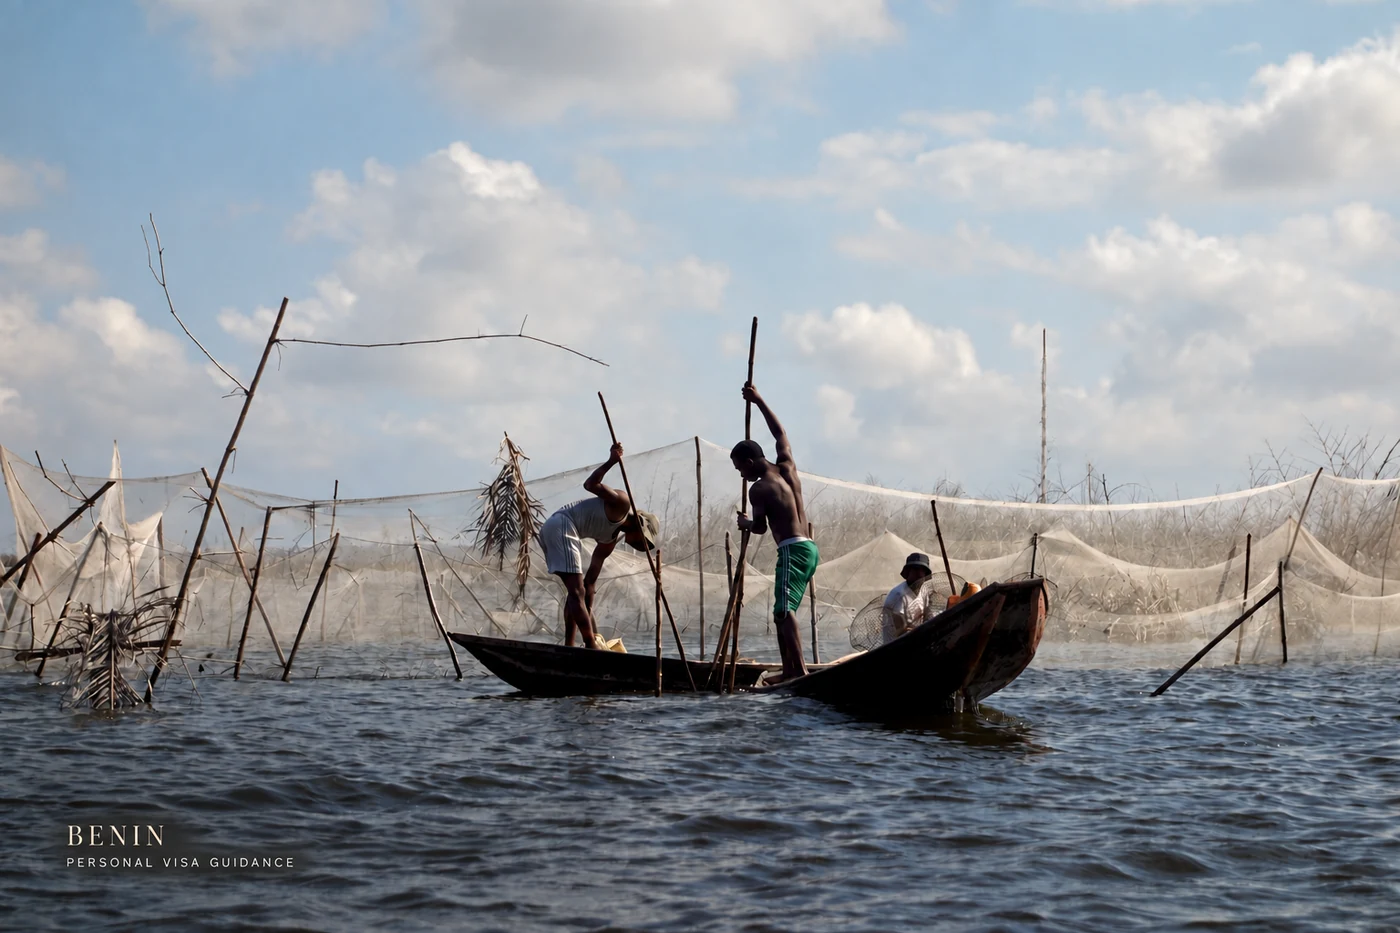
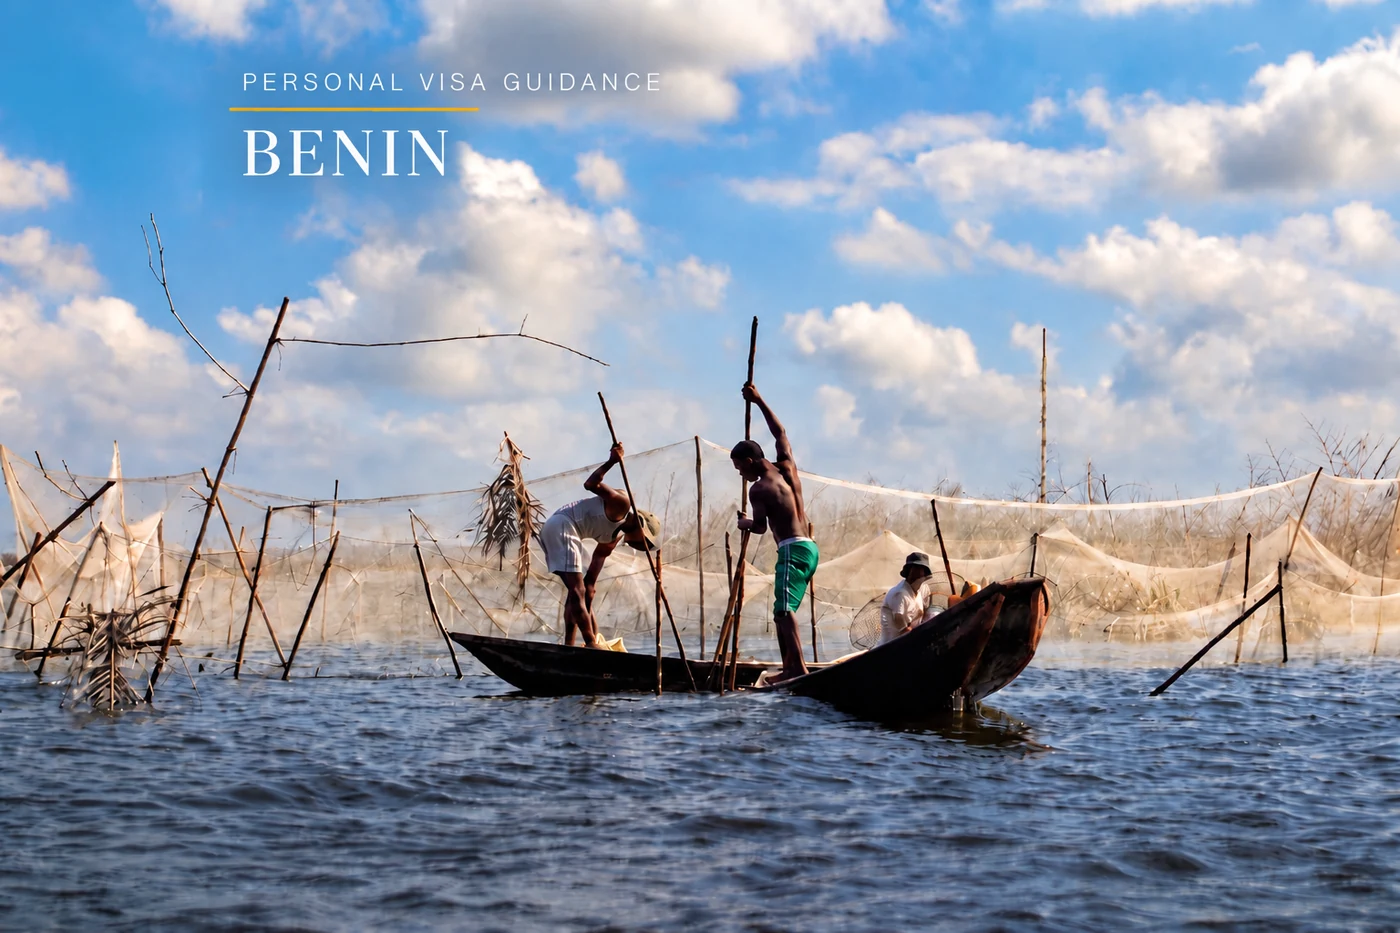
Day5

diff --git a/src/components/DestinationPage.jsx b/src/components/DestinationPage.jsx
@@ -141,7 +141,10 @@ export function DestinationPage({
                         className={
                           service.title === 'Travel Planner'
                             ? 'size-full object-contain'
-                            : 'size-full object-cover'
+                            : service.title === 'Personal Visa Guidance'
+                              ? // Its card art carries the title at the top — crop from the bottom.
+                                'size-full object-cover object-top'
+                              : 'size-full object-cover'
                         }
                       />
                     </div>

diff --git a/src/pages/Senegal.jsx b/src/pages/Senegal.jsx
@@ -169,7 +169,10 @@ export function Senegal() {
                         className={
                           service.title === 'Travel Planner'
                             ? 'size-full object-contain'
-                            : 'size-full object-cover'
+                            : service.title === 'Personal Visa Guidance'
+                              ? // Its card art carries the title at the top — crop from the bottom.
+                                'size-full object-cover object-top'
+                              : 'size-full object-cover'
                         }
                       />
                     </div>

diff --git a/src/pages/Gambia.jsx b/src/pages/Gambia.jsx
@@ -152,7 +152,10 @@ export function Gambia() {
                         className={
                           service.title === 'Travel Planner'
                             ? 'size-full object-contain'
-                            : 'size-full object-cover'
+                            : service.title === 'Personal Visa Guidance'
+                              ? // Its card art carries the title at the top — crop from the bottom.
+                                'size-full object-cover object-top'
+                              : 'size-full object-cover'
                         }
                       />
                     </div>

diff --git a/src/pages/Malawi.jsx b/src/pages/Malawi.jsx
@@ -180,7 +180,10 @@ export function Malawi() {
                         className={
                           service.title === 'Travel Planner'
                             ? 'size-full object-contain'
-                            : 'size-full object-cover'
+                            : service.title === 'Personal Visa Guidance'
+                              ? // Its card art carries the title at the top — crop from the bottom.
+                                'size-full object-cover object-top'
+                              : 'size-full object-cover'
                         }
                       />
                     </div>

diff --git a/src/pages/Rwanda.jsx b/src/pages/Rwanda.jsx
@@ -101,7 +101,10 @@ export function Rwanda() {
                         className={
                           service.title === 'Travel Planner'
                             ? 'size-full object-contain'
-                            : 'size-full object-cover'
+                            : service.title === 'Personal Visa Guidance'
+                              ? // Its card art carries the title at the top — crop from the bottom.
+                                'size-full object-cover object-top'
+                              : 'size-full object-cover'
                         }
                       />
                     </div>

diff --git a/src/pages/Uganda.jsx b/src/pages/Uganda.jsx
@@ -130,7 +130,10 @@ export function Uganda() {
                         className={
                           service.title === 'Travel Planner'
                             ? 'size-full object-contain'
-                            : 'size-full object-cover'
+                            : service.title === 'Personal Visa Guidance'
+                              ? // Its card art carries the title at the top — crop from the bottom.
+                                'size-full object-cover object-top'
+                              : 'size-full object-cover'
                         }
                       />
                     </div>

diff --git a/src/pages/Zambia.jsx b/src/pages/Zambia.jsx
@@ -210,7 +210,10 @@ export function Zambia() {
                         className={
                           service.title === 'Travel Planner'
                             ? 'size-full object-contain'
-                            : 'size-full object-cover'
+                            : service.title === 'Personal Visa Guidance'
+                              ? // Its card art carries the title at the top — crop from the bottom.
+                                'size-full object-cover object-top'
+                              : 'size-full object-cover'
                         }
                       />
                     </div>

diff --git a/src/pages/Benin.jsx b/src/pages/Benin.jsx
@@ -237,7 +237,10 @@ export function Benin() {
                         className={
                           service.title === 'Travel Planner'
                             ? 'size-full object-contain'
-                            : 'size-full object-cover'
+                            : service.title === 'Personal Visa Guidance'
+                              ? // Its card art carries the title at the top — crop from the bottom.
+                                'size-full object-cover object-top'
+                              : 'size-full object-cover'
                         }
                       />
                     </div>

diff --git a/src/pages/Ghana.jsx b/src/pages/Ghana.jsx
@@ -184,7 +184,10 @@ export function Ghana() {
                         className={
                           service.title === 'Travel Planner'
                             ? 'size-full object-contain'
-                            : 'size-full object-cover'
+                            : service.title === 'Personal Visa Guidance'
+                              ? // Its card art carries the title at the top — crop from the bottom.
+                                'size-full object-cover object-top'
+                              : 'size-full object-cover'
                         }
                       />
                     </div>
